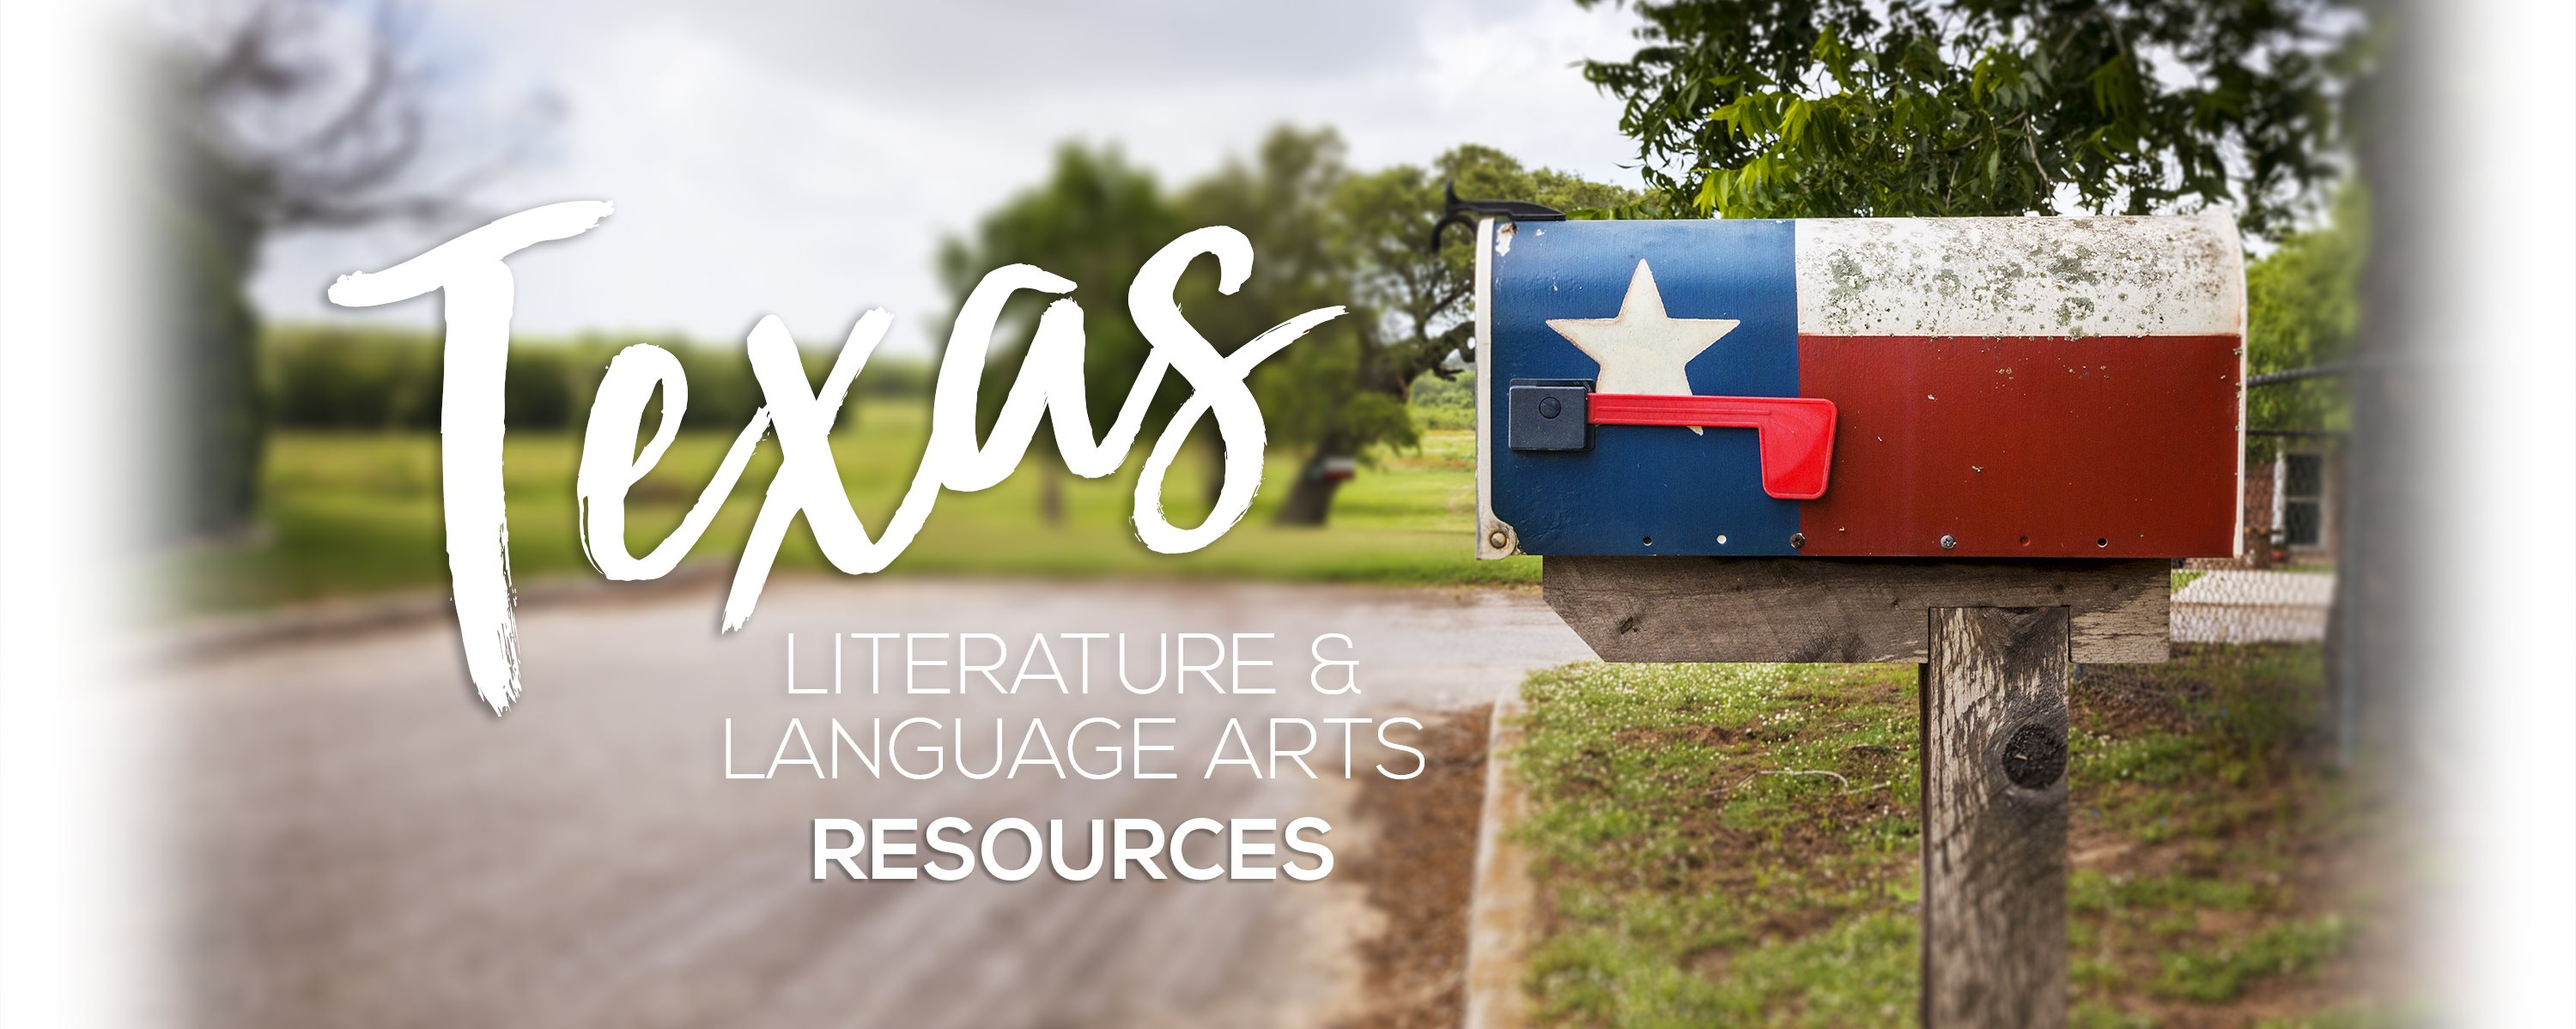
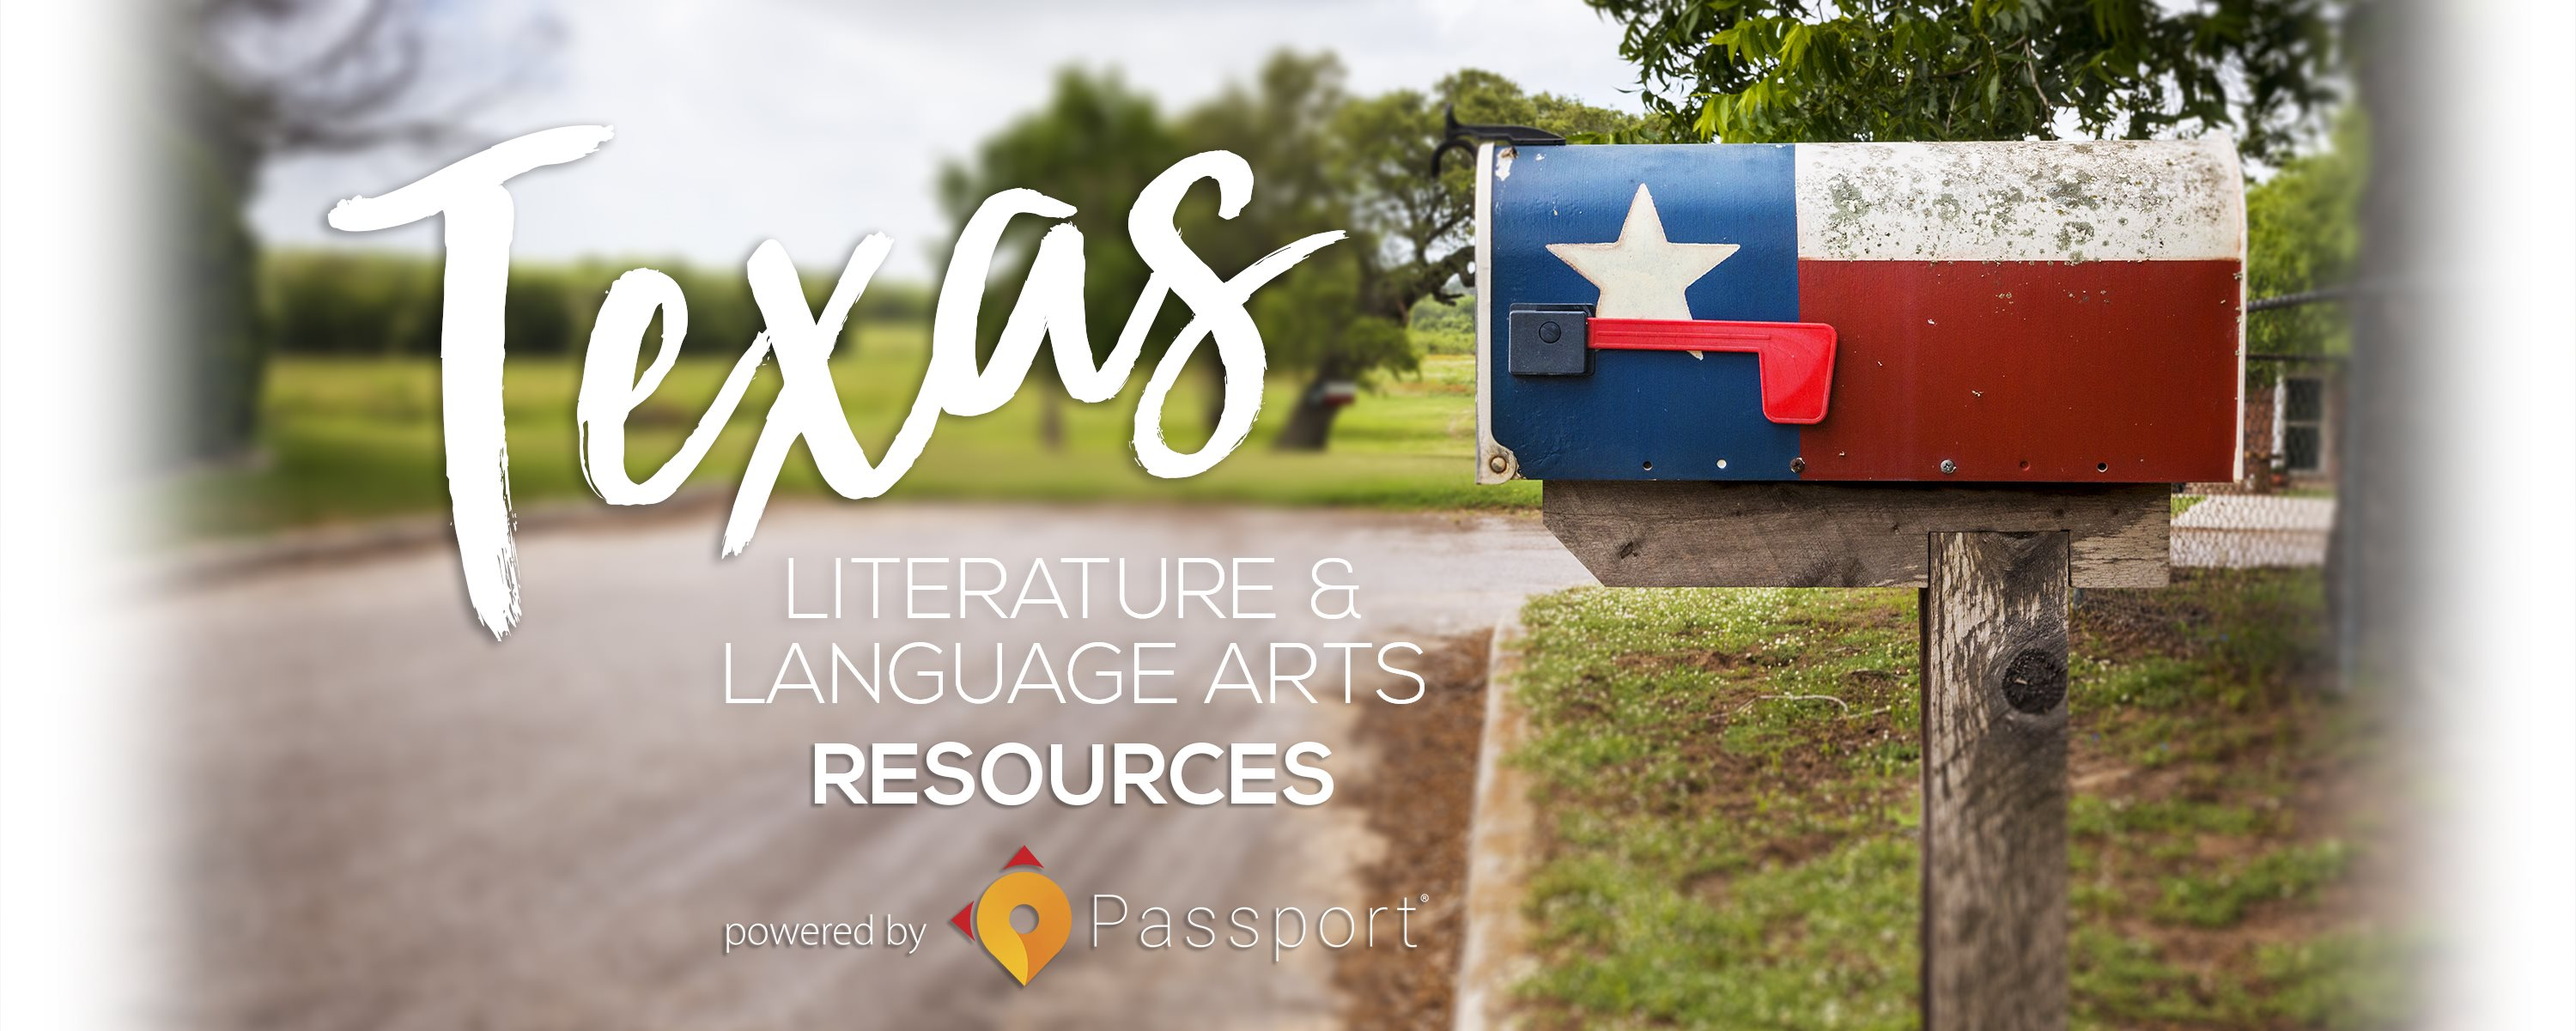
Texas ELA edits

diff --git a/texasela/index.php b/texasela/index.php
@@ -23,7 +23,7 @@
 			<div class="ninesixty" style="padding:20px 0 40px;">
                 <h2 class="purple" style="display:inline !important;">INTRODUCING</h2> <span class="mwtitle">Mirrors &amp; Windows</span>
 				<div class="one-half first">
-					<p style="line-height:1.6;">
+					<p style="line-height:1.6;margin-bottom:25px;">
 					<strong>EMC School</strong> is proud to present its exciting literature and language arts program, <span class="italic">Mirrors &amp; Windows</span>. 
 					This seven-level program is built on a collection of rich, diverse, and timeless writings by renowned, award-winning authors.<br /><br />
 				
@@ -35,7 +35,7 @@
 				</div>
 				<div class="one-half last">
 					<a class="technology-buttons mimundo-sample transition" href="/texasela/resources.php" target="_blank" style="position:relative;display:inline;left:0;bottom:0;margin-left:130px;">Resources</a><br />
-					<img src="/lib/images/texasela-hero.png" style="float:right;margin-left:20px;" />
+					<img src="/lib/images/texasela-hero-new.png" style="float:right;margin-left:20px;" />
 				</div>
             </div>
 			<div class="clearfix"></div>
